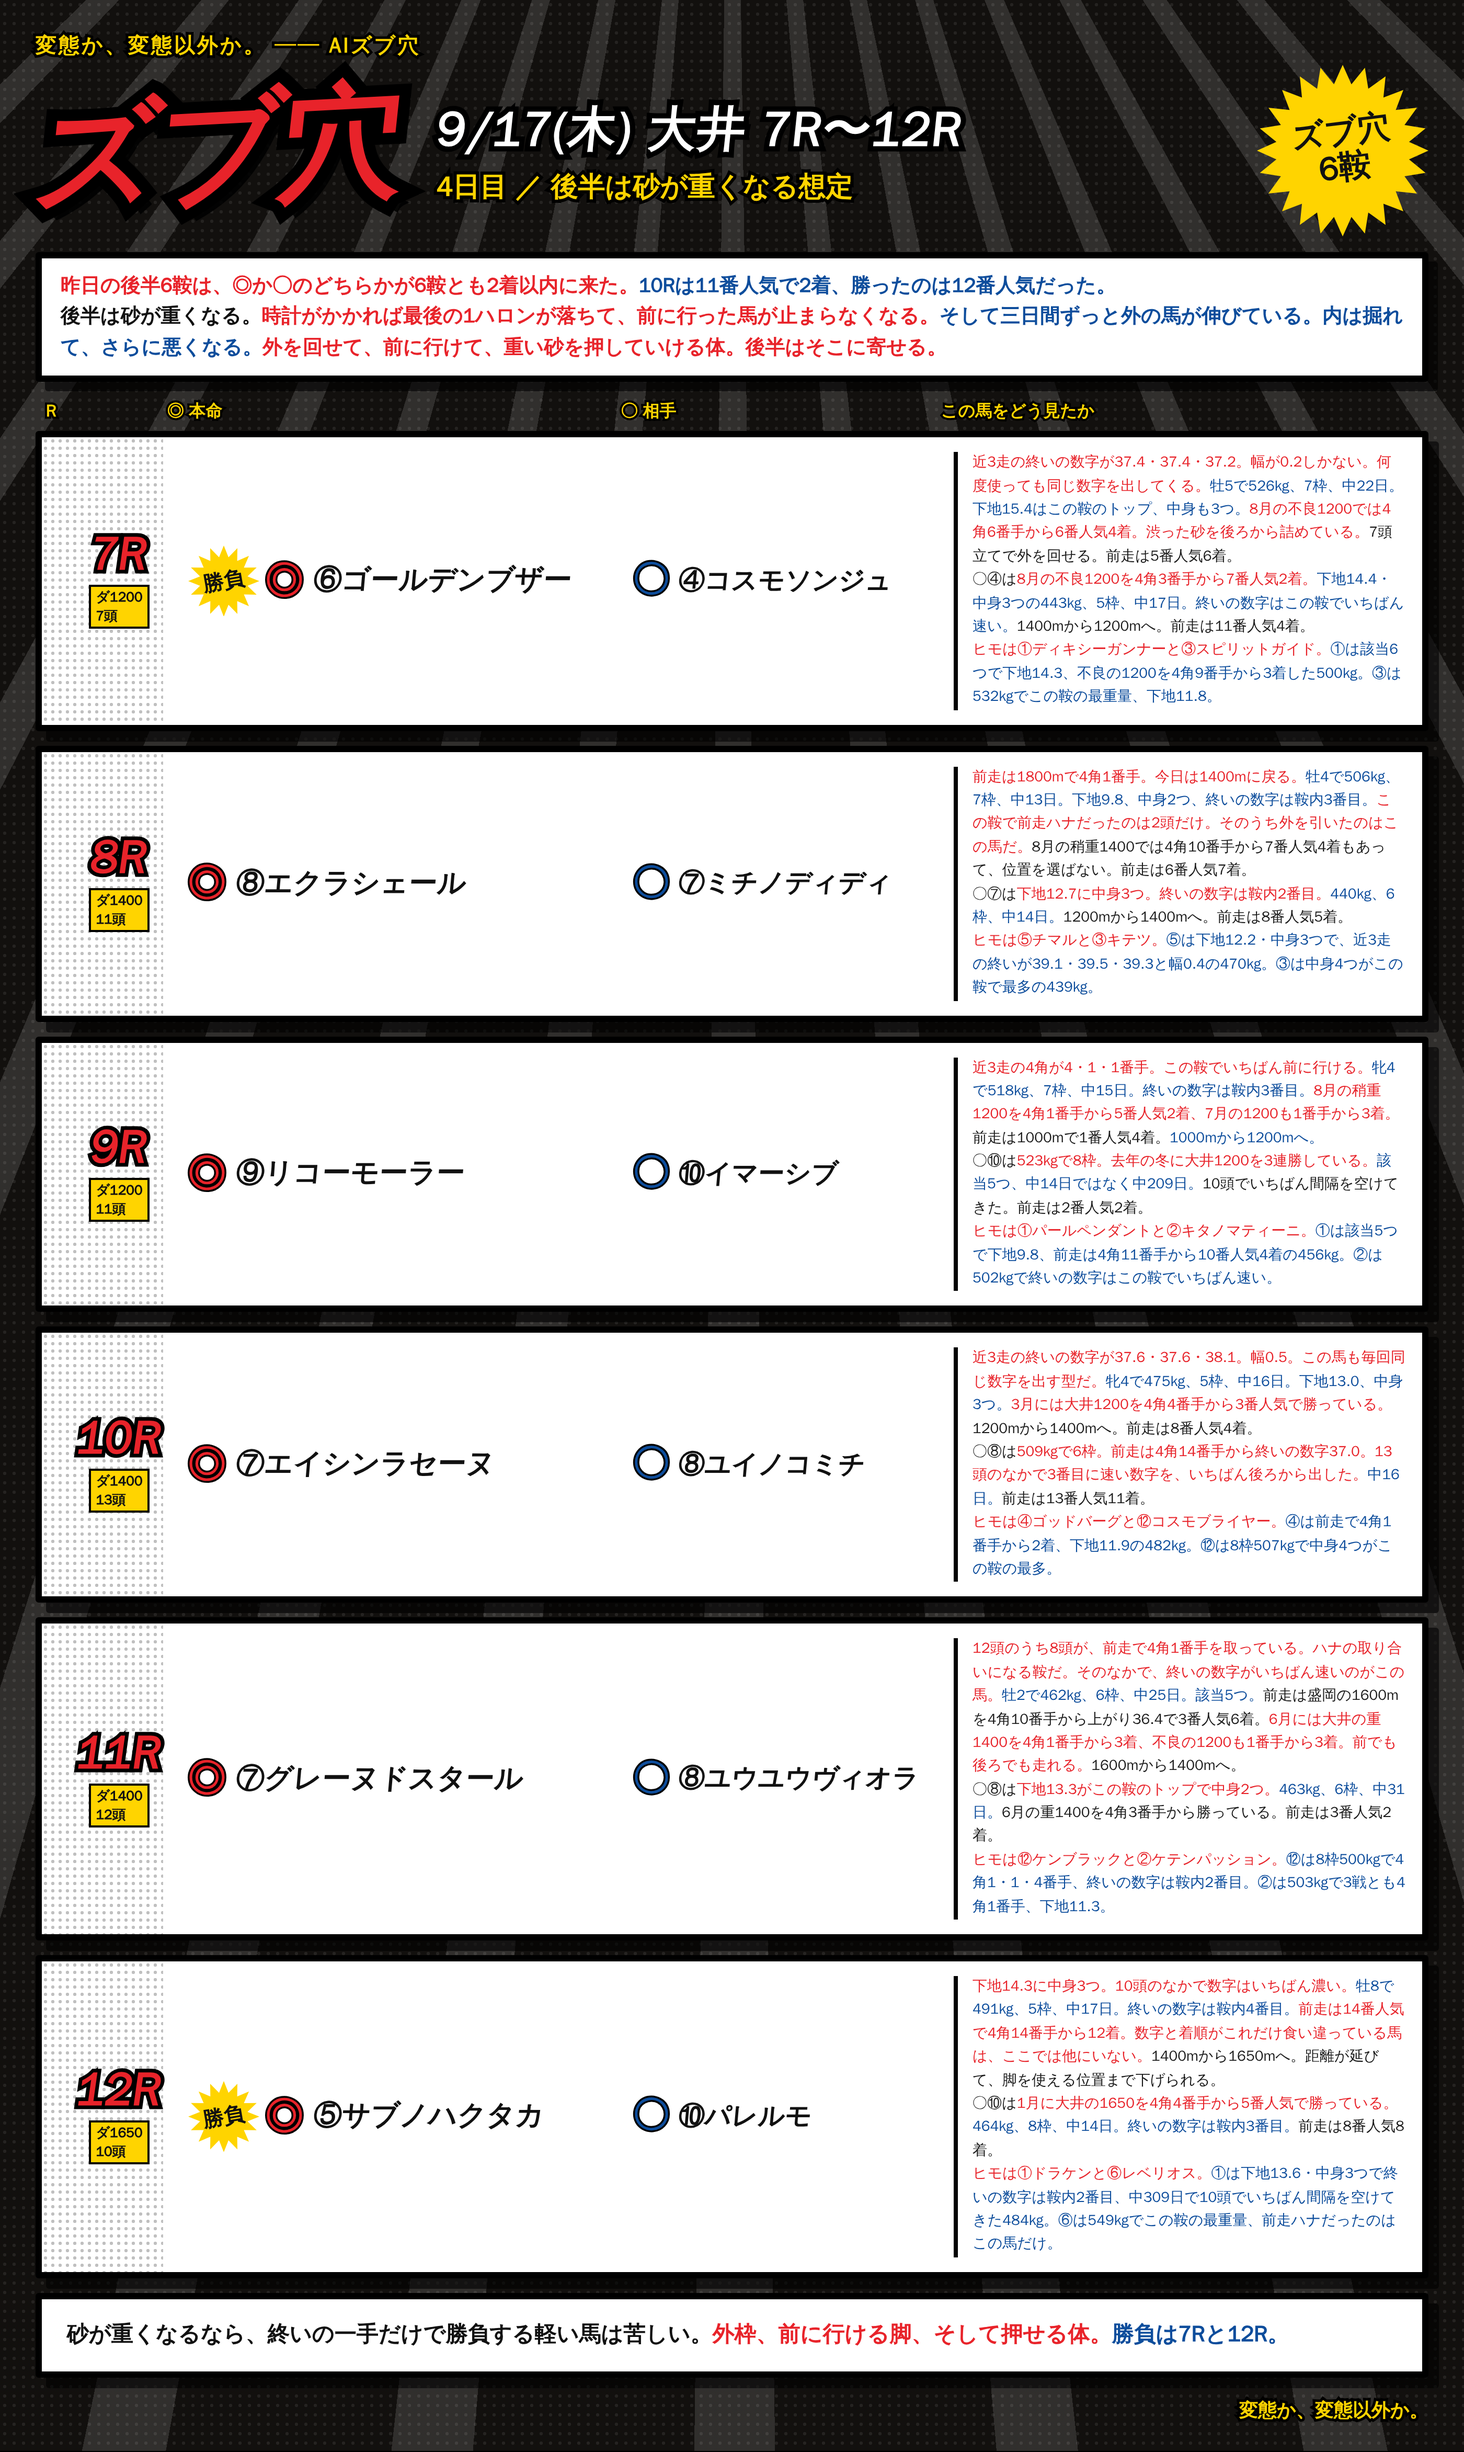
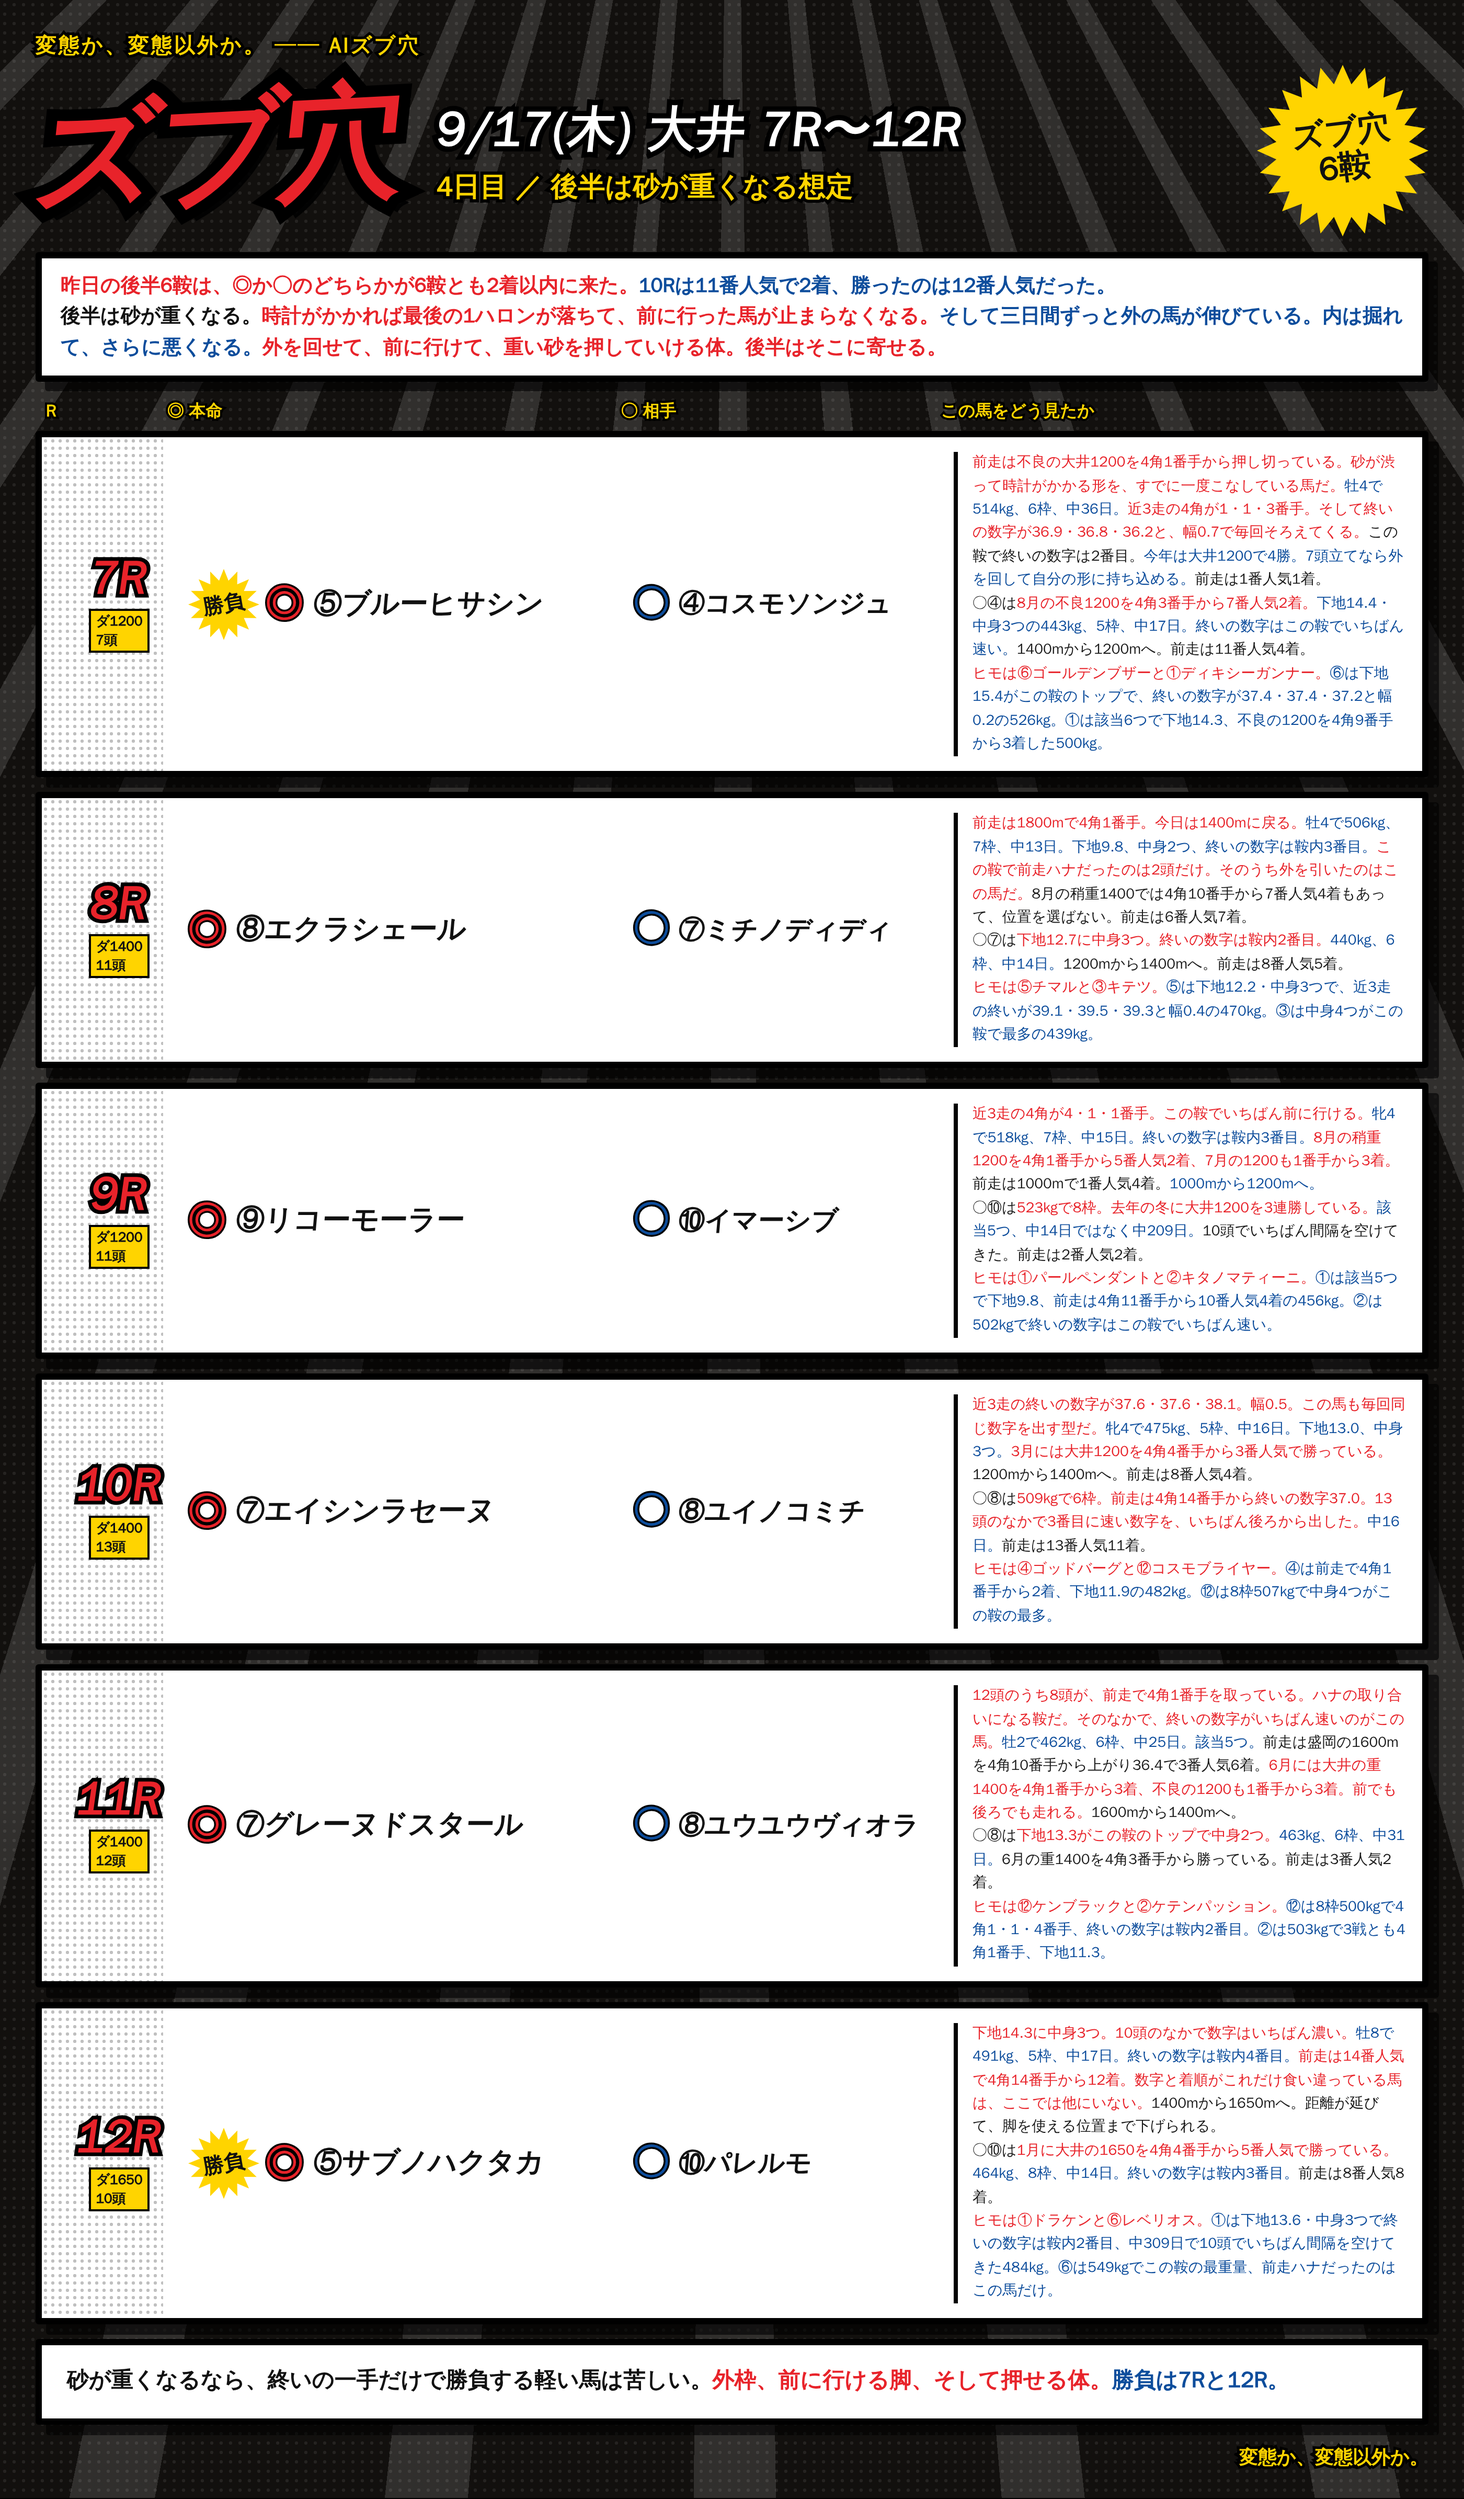
7Rを◎⑤ブルーヒサシン ○④コスモソンジュに変更
ヒモを⑥ゴールデンブザー・①ディキシーガンナーに。

Claude-Session: https://claude.ai/code/session_01RoHscZkr96FNaxQWvUqgEw

diff --git a/notes/live/2026-09-17/oi_7_12.html b/notes/live/2026-09-17/oi_7_12.html
@@ -81,7 +81,7 @@
 <div class="head"><div class="gekiga">ズブ穴</div><div class="dateblk"><div class="d1">9/17(木) 大井 7R〜12R</div><div class="d2">4日目 ／ 後半は砂が重くなる想定</div></div><div class="burst"><span>ズブ穴<br>6鞍</span></div></div>
 <div class="lead"><span class="r">昨日の後半6鞍は、◎か○のどちらかが6鞍とも2着以内に来た。</span><span class="b">10Rは11番人気で2着、勝ったのは12番人気だった。</span><br>後半は砂が重くなる。<span class="r">時計がかかれば最後の1ハロンが落ちて、前に行った馬が止まらなくなる。</span><span class="b">そして三日間ずっと外の馬が伸びている。内は掘れて、さらに悪くなる。</span><span class="r">外を回せて、前に行けて、重い砂を押していける体。後半はそこに寄せる。</span></div>
 <div class="cols"><div class="cR">R</div><div class="cH">◎ 本命</div><div class="cA">○ 相手</div><div class="cM">この馬をどう見たか</div></div>
-<div class="row"><div class="corner"></div><div class="rN"><div class="n">7R</div><div class="d">ダ1200<br>7頭</div></div><div class="hm"><div class="sb"><span>勝負</span></div><span class="mk">◎</span><span class="nm">⑥ゴールデンブザー</span></div><div class="at"><span class="mk2">○</span><span class="nm2">④コスモソンジュ</span></div><div class="memo"><b class="r">近3走の終いの数字が37.4・37.4・37.2。幅が0.2しかない。何度使っても同じ数字を出してくる。</b><b>牡5で526kg、7枠、中22日。下地15.4はこの鞍のトップ、中身も3つ。</b><b class="r">8月の不良1200では4角6番手から6番人気4着。渋った砂を後ろから詰めている。</b>7頭立てで外を回せる。前走は5番人気6着。<br>○④は<b class="r">8月の不良1200を4角3番手から7番人気2着。</b><b>下地14.4・中身3つの443kg、5枠、中17日。終いの数字はこの鞍でいちばん速い。</b>1400mから1200mへ。前走は11番人気4着。<br><b class="r">ヒモは①ディキシーガンナーと③スピリットガイド。</b><b>①は該当6つで下地14.3、不良の1200を4角9番手から3着した500kg。③は532kgでこの鞍の最重量、下地11.8。</b></div></div>
+<div class="row"><div class="corner"></div><div class="rN"><div class="n">7R</div><div class="d">ダ1200<br>7頭</div></div><div class="hm"><div class="sb"><span>勝負</span></div><span class="mk">◎</span><span class="nm">⑤ブルーヒサシン</span></div><div class="at"><span class="mk2">○</span><span class="nm2">④コスモソンジュ</span></div><div class="memo"><b class="r">前走は不良の大井1200を4角1番手から押し切っている。砂が渋って時計がかかる形を、すでに一度こなしている馬だ。</b><b>牡4で514kg、6枠、中36日。</b><b class="r">近3走の4角が1・1・3番手。そして終いの数字が36.9・36.8・36.2と、幅0.7で毎回そろえてくる。</b>この鞍で終いの数字は2番目。<b>今年は大井1200で4勝。7頭立てなら外を回して自分の形に持ち込める。</b>前走は1番人気1着。<br>○④は<b class="r">8月の不良1200を4角3番手から7番人気2着。</b><b>下地14.4・中身3つの443kg、5枠、中17日。終いの数字はこの鞍でいちばん速い。</b>1400mから1200mへ。前走は11番人気4着。<br><b class="r">ヒモは⑥ゴールデンブザーと①ディキシーガンナー。</b><b>⑥は下地15.4がこの鞍のトップで、終いの数字が37.4・37.4・37.2と幅0.2の526kg。①は該当6つで下地14.3、不良の1200を4角9番手から3着した500kg。</b></div></div>
 <div class="row"><div class="corner"></div><div class="rN"><div class="n">8R</div><div class="d">ダ1400<br>11頭</div></div><div class="hm"><span class="mk">◎</span><span class="nm">⑧エクラシェール</span></div><div class="at"><span class="mk2">○</span><span class="nm2">⑦ミチノディディ</span></div><div class="memo"><b class="r">前走は1800mで4角1番手。今日は1400mに戻る。</b><b>牡4で506kg、7枠、中13日。下地9.8、中身2つ、終いの数字は鞍内3番目。</b><b class="r">この鞍で前走ハナだったのは2頭だけ。そのうち外を引いたのはこの馬だ。</b>8月の稍重1400では4角10番手から7番人気4着もあって、位置を選ばない。前走は6番人気7着。<br>○⑦は<b class="r">下地12.7に中身3つ。終いの数字は鞍内2番目。</b><b>440kg、6枠、中14日。</b>1200mから1400mへ。前走は8番人気5着。<br><b class="r">ヒモは⑤チマルと③キテツ。</b><b>⑤は下地12.2・中身3つで、近3走の終いが39.1・39.5・39.3と幅0.4の470kg。③は中身4つがこの鞍で最多の439kg。</b></div></div>
 <div class="row"><div class="corner"></div><div class="rN"><div class="n">9R</div><div class="d">ダ1200<br>11頭</div></div><div class="hm"><span class="mk">◎</span><span class="nm">⑨リコーモーラー</span></div><div class="at"><span class="mk2">○</span><span class="nm2">⑩イマーシブ</span></div><div class="memo"><b class="r">近3走の4角が4・1・1番手。この鞍でいちばん前に行ける。</b><b>牝4で518kg、7枠、中15日。終いの数字は鞍内3番目。</b><b class="r">8月の稍重1200を4角1番手から5番人気2着、7月の1200も1番手から3着。</b>前走は1000mで1番人気4着。<b>1000mから1200mへ。</b><br>○⑩は<b class="r">523kgで8枠。去年の冬に大井1200を3連勝している。</b><b>該当5つ、中14日ではなく中209日。</b>10頭でいちばん間隔を空けてきた。前走は2番人気2着。<br><b class="r">ヒモは①パールペンダントと②キタノマティーニ。</b><b>①は該当5つで下地9.8、前走は4角11番手から10番人気4着の456kg。②は502kgで終いの数字はこの鞍でいちばん速い。</b></div></div>
 <div class="row"><div class="corner"></div><div class="rN"><div class="n">10R</div><div class="d">ダ1400<br>13頭</div></div><div class="hm"><span class="mk">◎</span><span class="nm">⑦エイシンラセーヌ</span></div><div class="at"><span class="mk2">○</span><span class="nm2">⑧ユイノコミチ</span></div><div class="memo"><b class="r">近3走の終いの数字が37.6・37.6・38.1。幅0.5。この馬も毎回同じ数字を出す型だ。</b><b>牝4で475kg、5枠、中16日。下地13.0、中身3つ。</b><b class="r">3月には大井1200を4角4番手から3番人気で勝っている。</b>1200mから1400mへ。前走は8番人気4着。<br>○⑧は<b class="r">509kgで6枠。前走は4角14番手から終いの数字37.0。13頭のなかで3番目に速い数字を、いちばん後ろから出した。</b><b>中16日。</b>前走は13番人気11着。<br><b class="r">ヒモは④ゴッドバーグと⑫コスモブライヤー。</b><b>④は前走で4角1番手から2着、下地11.9の482kg。⑫は8枠507kgで中身4つがこの鞍の最多。</b></div></div>
